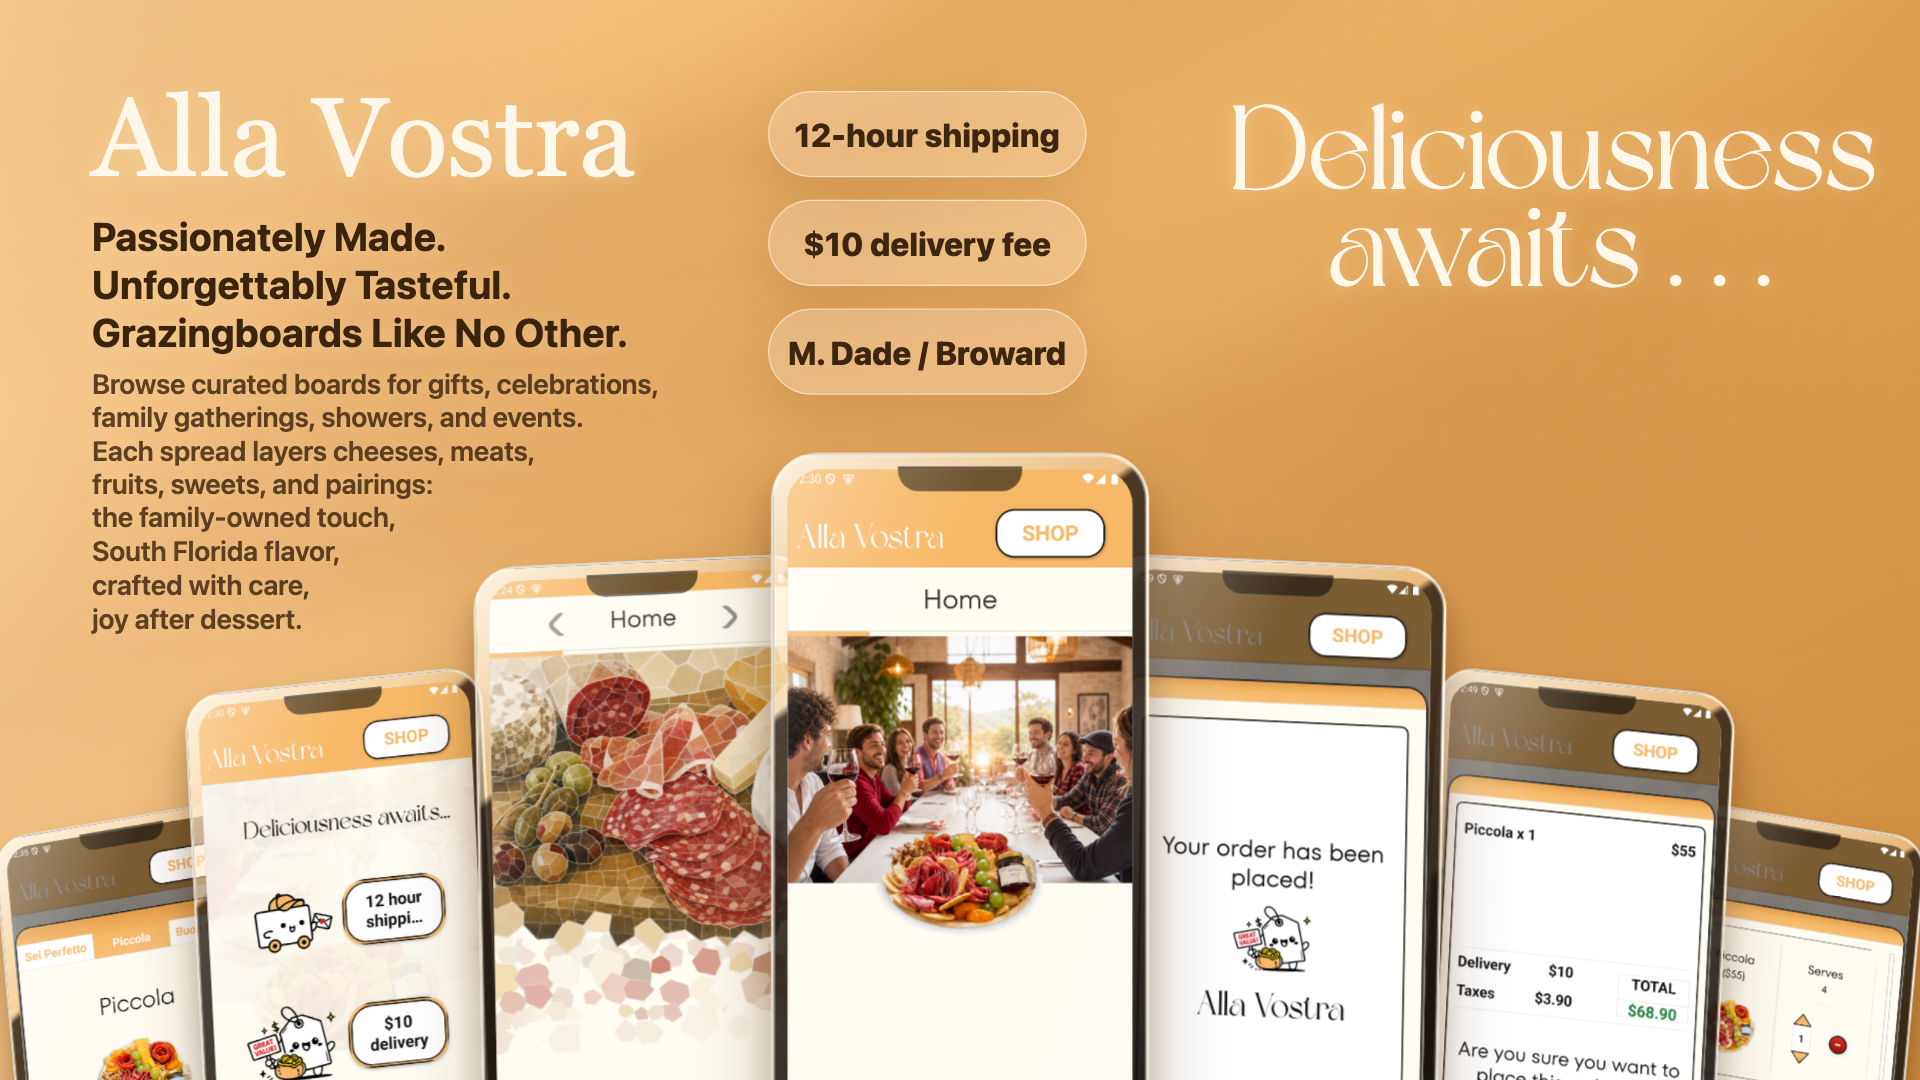
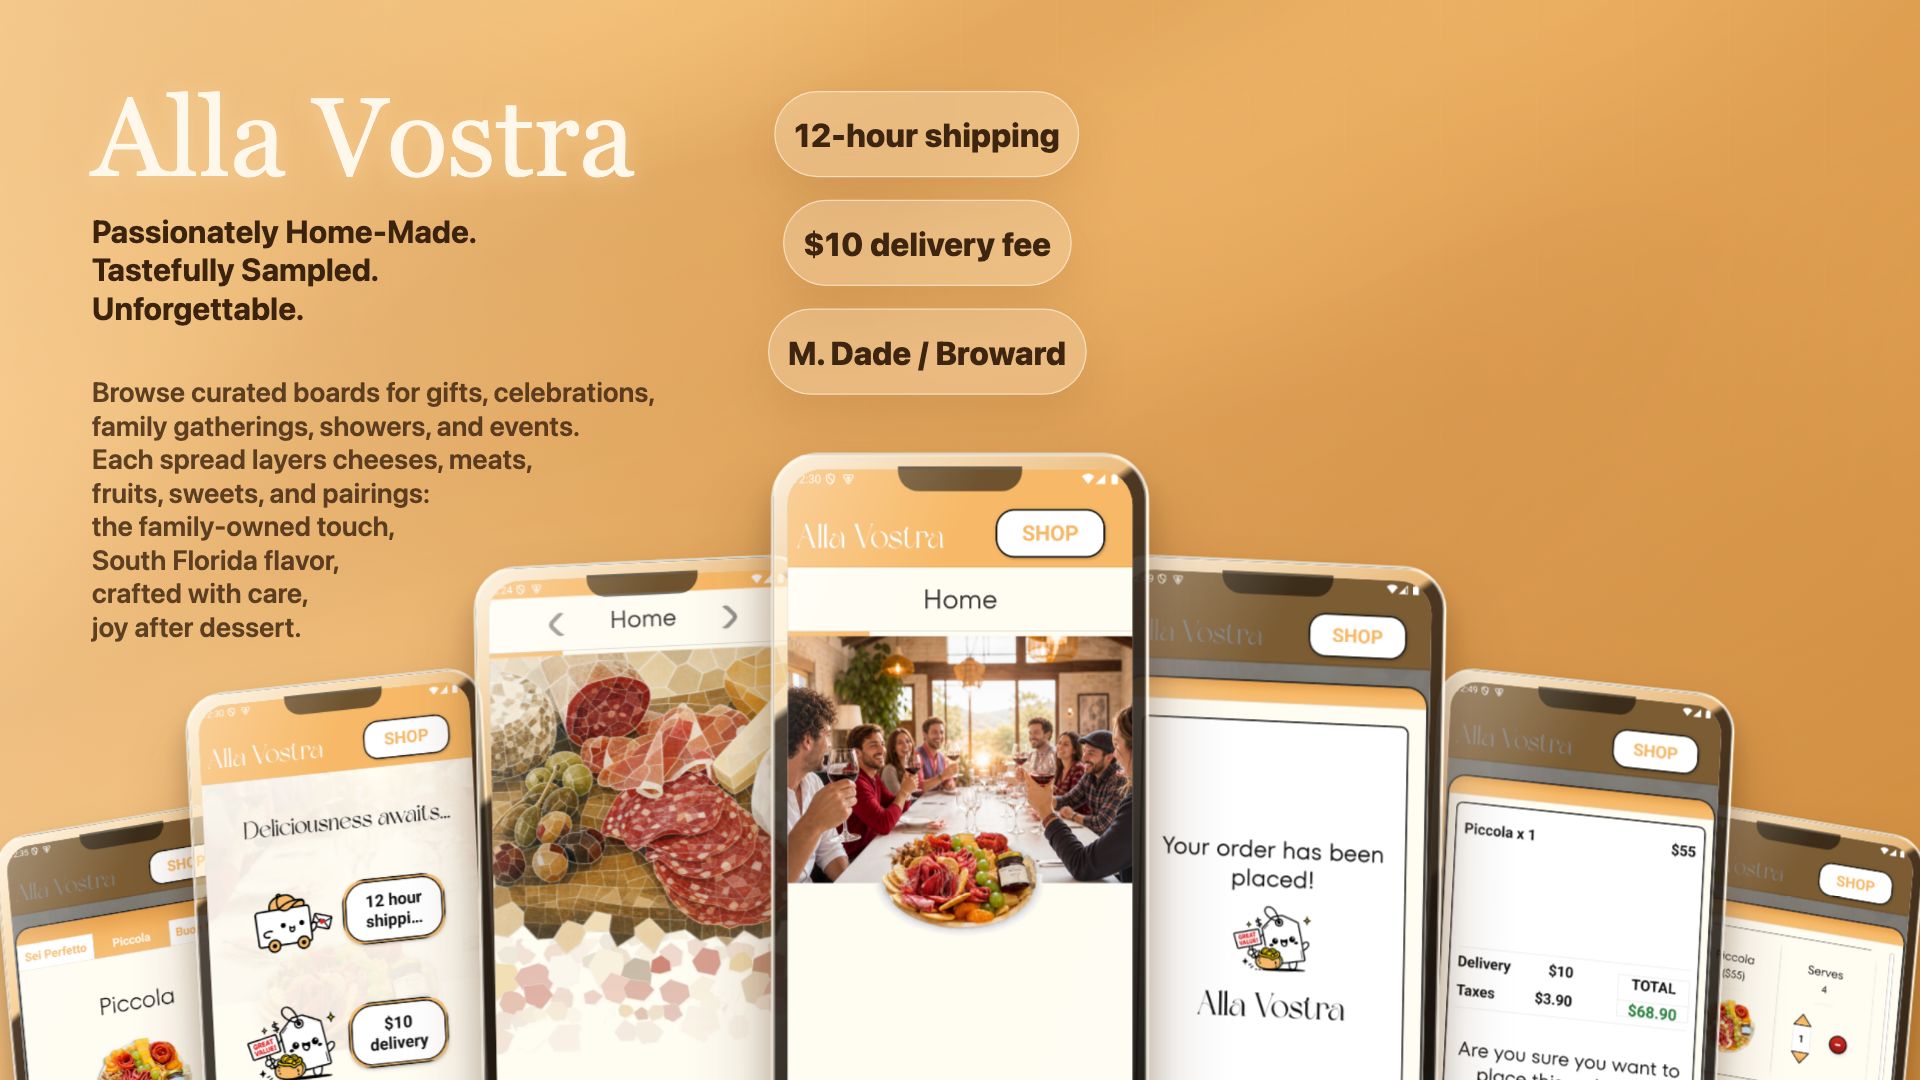
Polished Play Store feature graphic layout and typography - Reworked the Dream Avenue tagline copy, sizing, alignment, white fill, and black stroke styling. - Recentered and lowered the device-frame screenshot stack in the feature graphic. - Added reusable generator controls for tagline rows, stack 

diff --git a/docs/play-store/screenshots/mockups/generate-feature-graphic.js b/docs/play-store/screenshots/mockups/generate-feature-graphic.js
@@ -45,6 +45,8 @@ const variants = [
     brandTop: '86px',
     badgeLeft: '768px',
     badgeTop: '91px',
+    badgeGap: '18px',
+    badgeSpreadBetweenBrandAndDeck: false,
     badgeBaseWidth: '0px',
     badgeFontFamily: 'Inter, ui-sans-serif, system-ui, -apple-system, BlinkMacSystemFont, "Segoe UI", sans-serif',
     badges: [
@@ -74,6 +76,8 @@ const variants = [
       'crafted with care,',
       'joy after dessert.',
     ],
+    stackOffsetX: '0px',
+    stackOffsetY: '0px',
   },
   {
     id: 'dream',
@@ -83,7 +87,7 @@ const variants = [
     brandFontFamily: '"Dream Avenue", Georgia, "Times New Roman", serif',
     brandFontSize: '175.5px',
     brandFontWeight: '700',
-    brandTextStroke: '2.6px rgba(8, 5, 2, 0.98)',
+    brandTextStroke: '3.9px rgba(8, 5, 2, 0.98)',
     brandLineHeight: '0.74',
     brandMargin: '0 0 0',
     brandNameTranslateX: '-36.4px',
@@ -97,6 +101,8 @@ const variants = [
     brandTop: '104.5px',
     badgeLeft: '737.6px',
     badgeTop: '47.9px',
+    badgeGap: '18px',
+    badgeSpreadBetweenBrandAndDeck: true,
     badgeBaseWidth: '291.7px',
     badgeFontFamily: '"TT Fors", Inter, ui-sans-serif, system-ui, sans-serif',
     badges: [
@@ -104,12 +110,20 @@ const variants = [
       { label: '$10 delivery fee', scale: '1.05' },
       { label: 'M. Dade / Broward', scale: '1' },
     ],
-    taglineLines: ['Passionately', 'Home-Made.', 'Tastefully Sampled.', 'Unforgettable.'],
+    taglineLines: ['Convenient.', 'Tasteful.', 'Posh.'],
+    taglineLineScales: [1.21, 1, 0.722],
+    taglineLineFontSizes: ['110px', '130px', '150px'],
+    taglineLineAligns: ['flex-end', 'flex-end', 'flex-end'],
+    taglineTargetWidth: '452.328125px',
+    taglineEqualizeLineWidths: true,
     taglineFontFamily: '"TT Fors", Inter, ui-sans-serif, system-ui, sans-serif',
-    taglineFontSize: '75px',
+    taglineFontSize: '122.9844px',
+    taglineColor: '#fff8ea',
+    taglineTextStroke: '5.7px rgba(8, 5, 2, 0.98)',
     taglineLineHeight: '1.575',
-    taglineLeft: '1230px',
-    taglineTop: '46px',
+    taglineLineGap: '70.2768px',
+    taglineLeft: '1455px',
+    taglineTop: '101px',
     taglineTranslateX: '0px',
     sublineFontSize: '55px',
     sublineLineHeight: '0.94',
@@ -117,6 +131,8 @@ const variants = [
     sublineLeft: '1230px',
     sublineTop: '46px',
     sublineLines: [],
+    stackOffsetX: '0px',
+    stackOffsetY: '50px',
   },
 ];
 
@@ -289,13 +305,23 @@ function html(backgroundSrc, renderedScreenshots, variant) {
       font-weight: 700;
       line-height: ${variant.taglineLineHeight};
       letter-spacing: 0;
-      color: #3b230d;
+      color: ${variant.taglineColor || '#3b230d'};
+      -webkit-text-stroke: ${variant.taglineTextStroke || '0 transparent'};
+      paint-order: stroke fill;
       z-index: 20;
       transform: translateX(${variant.taglineTranslateX});
+      ${variant.taglineEqualizeLineWidths ? `
+      display: flex;
+      flex-direction: column;
+      align-items: flex-start;
+      gap: ${variant.taglineLineGap};
+      line-height: 1;
+      ` : ''}
     }
 
     .tagline-line {
       display: block;
+      width: max-content;
       white-space: nowrap;
     }
 
@@ -328,7 +354,7 @@ function html(backgroundSrc, renderedScreenshots, variant) {
       display: flex;
       flex-direction: column;
       align-items: center;
-      gap: 18px;
+      gap: ${variant.badgeGap};
       transform: scale(1.25);
       transform-origin: top left;
     }
@@ -355,9 +381,9 @@ function html(backgroundSrc, renderedScreenshots, variant) {
 
     .deck {
       position: absolute;
-      right: 0;
-      bottom: -204px;
-      left: 0;
+      left: calc(50% - ${CANVAS.width / 2}px + ${variant.stackOffsetX});
+      bottom: calc(-204px - ${variant.stackOffsetY});
+      width: ${CANVAS.width}px;
       height: 860px;
       z-index: 10;
       transform: scale(1.21);
@@ -459,9 +485,9 @@ function html(backgroundSrc, renderedScreenshots, variant) {
     <section class="brand" aria-label="Alla Vostra">
       <h1 class="brand-name">${variant.brandNameLines.map((line) => `<span class="brand-name-line">${line}</span>`).join('')}</h1>
     </section>
-    <p class="tagline">${variant.taglineLines.map((line) => `<span class="tagline-line">${line}</span>`).join('')}</p>
+    <p class="tagline" data-target-width="${variant.taglineTargetWidth || ''}">${variant.taglineLines.map((line, index) => `<span class="tagline-line" data-line-scale="${variant.taglineLineScales?.[index] ?? 1}" data-line-font-size="${variant.taglineLineFontSizes?.[index] || ''}" style="align-self:${variant.taglineLineAligns?.[index] ?? 'auto'}">${line}</span>`).join('')}</p>
     ${variant.sublineLines.length ? `<p class="subline">${variant.sublineLines.map((line) => `<span class="subline-line">${line}</span>`).join('')}</p>` : ''}
-    <div class="badge-stack" aria-label="Delivery highlights">
+    <div class="badge-stack" data-spread-between-brand-and-deck="${variant.badgeSpreadBetweenBrandAndDeck ? 'true' : 'false'}" aria-label="Delivery highlights">
       ${variant.badges.map((badge) => `<span class="badge" style="--badge-scale:${badge.scale};">${badge.label}</span>`).join('')}
     </div>
     <section class="deck" aria-label="Alla Vostra app screens">
@@ -520,6 +546,40 @@ async function renderVariant(browser, backgroundSrc, renderedScreenshots, varian
     await page.waitForLoadState('networkidle');
     await page.waitForFunction(() => Array.from(document.images).every((img) => img.complete && img.naturalWidth > 0));
     await page.evaluate(() => document.fonts.ready);
+    if (variant.taglineEqualizeLineWidths) {
+      await page.evaluate(() => {
+        const lines = Array.from(document.querySelectorAll('.tagline-line'));
+        const [firstLine, ...remainingLines] = lines;
+        if (!firstLine) {
+          return;
+        }
+
+        const tagline = document.querySelector('.tagline');
+        const configuredTargetWidth = Number.parseFloat(tagline?.dataset.targetWidth || '');
+        const targetWidth = Number.isFinite(configuredTargetWidth)
+          ? configuredTargetWidth
+          : firstLine.getBoundingClientRect().width;
+        const baseFontSize = Number.parseFloat(window.getComputedStyle(firstLine).fontSize);
+        const lineWidths = lines.map((line) => line.getBoundingClientRect().width);
+        if (tagline) {
+          tagline.style.width = `${targetWidth}px`;
+        }
+
+        lines.forEach((line, index) => {
+          const explicitFontSize = line.dataset.lineFontSize;
+          if (explicitFontSize) {
+            line.style.fontSize = explicitFontSize;
+            return;
+          }
+
+          const lineWidth = lineWidths[index];
+          const lineScale = Number.parseFloat(line.dataset.lineScale || '1');
+          if (lineWidth > 0 && Number.isFinite(baseFontSize)) {
+            line.style.fontSize = `${baseFontSize * (targetWidth / lineWidth) * (Number.isFinite(lineScale) ? lineScale : 1)}px`;
+          }
+        });
+      });
+    }
 
     await page.screenshot({
       path: tempPath,
